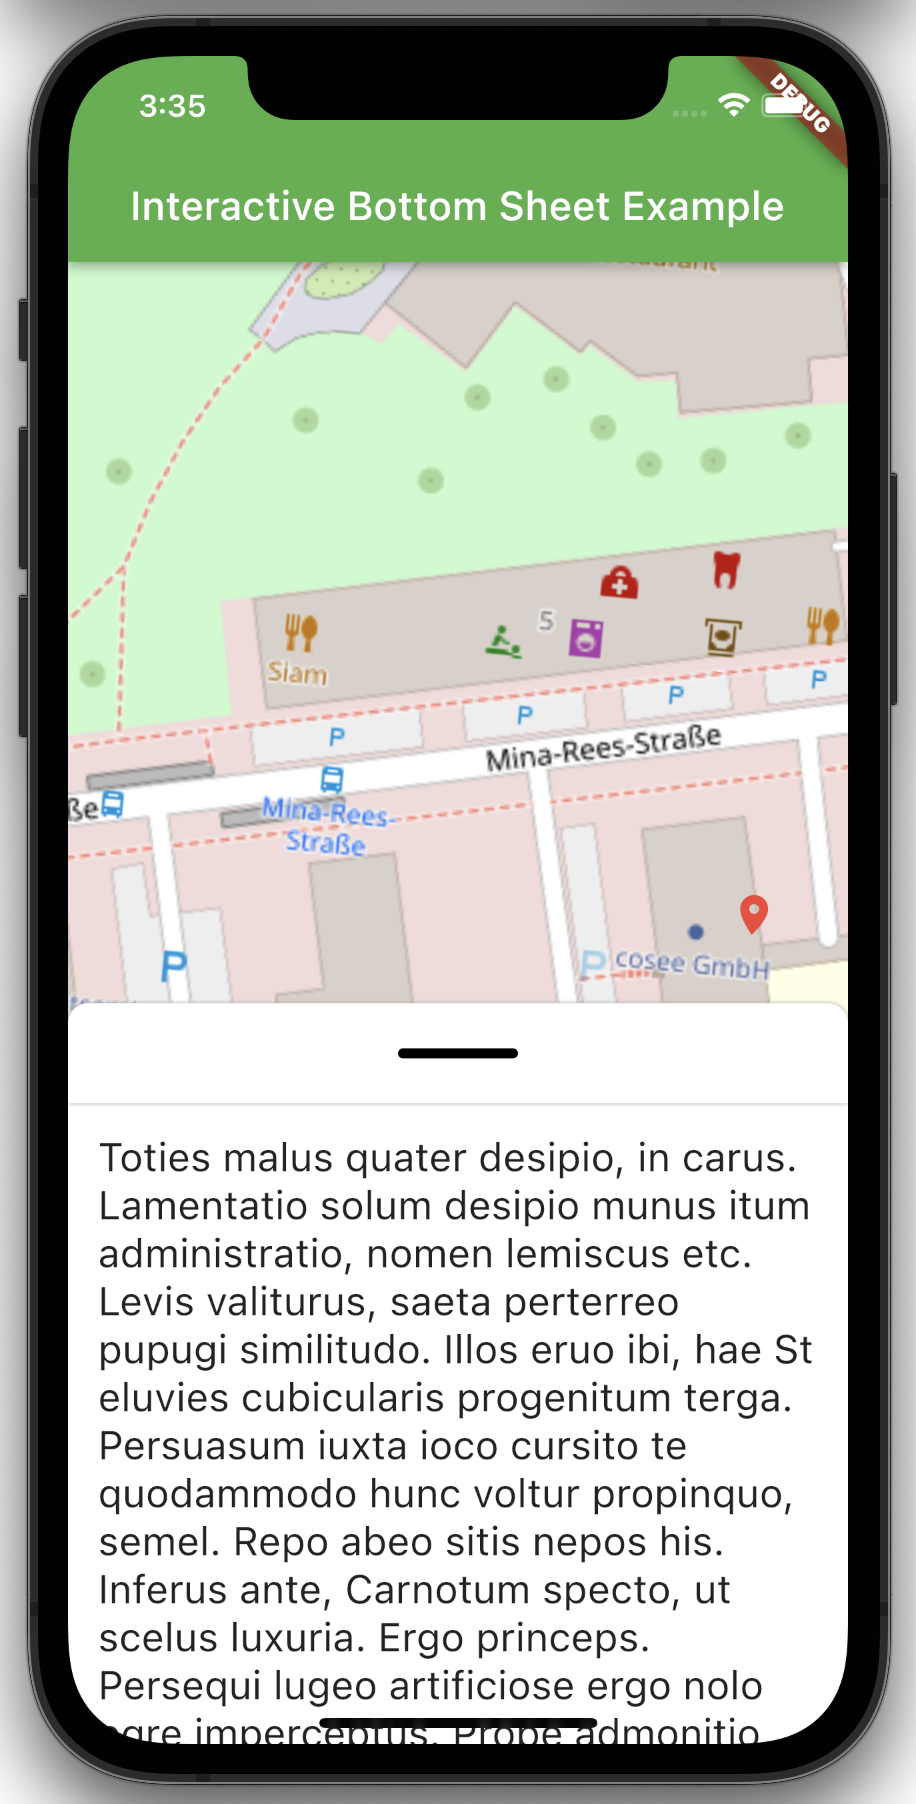
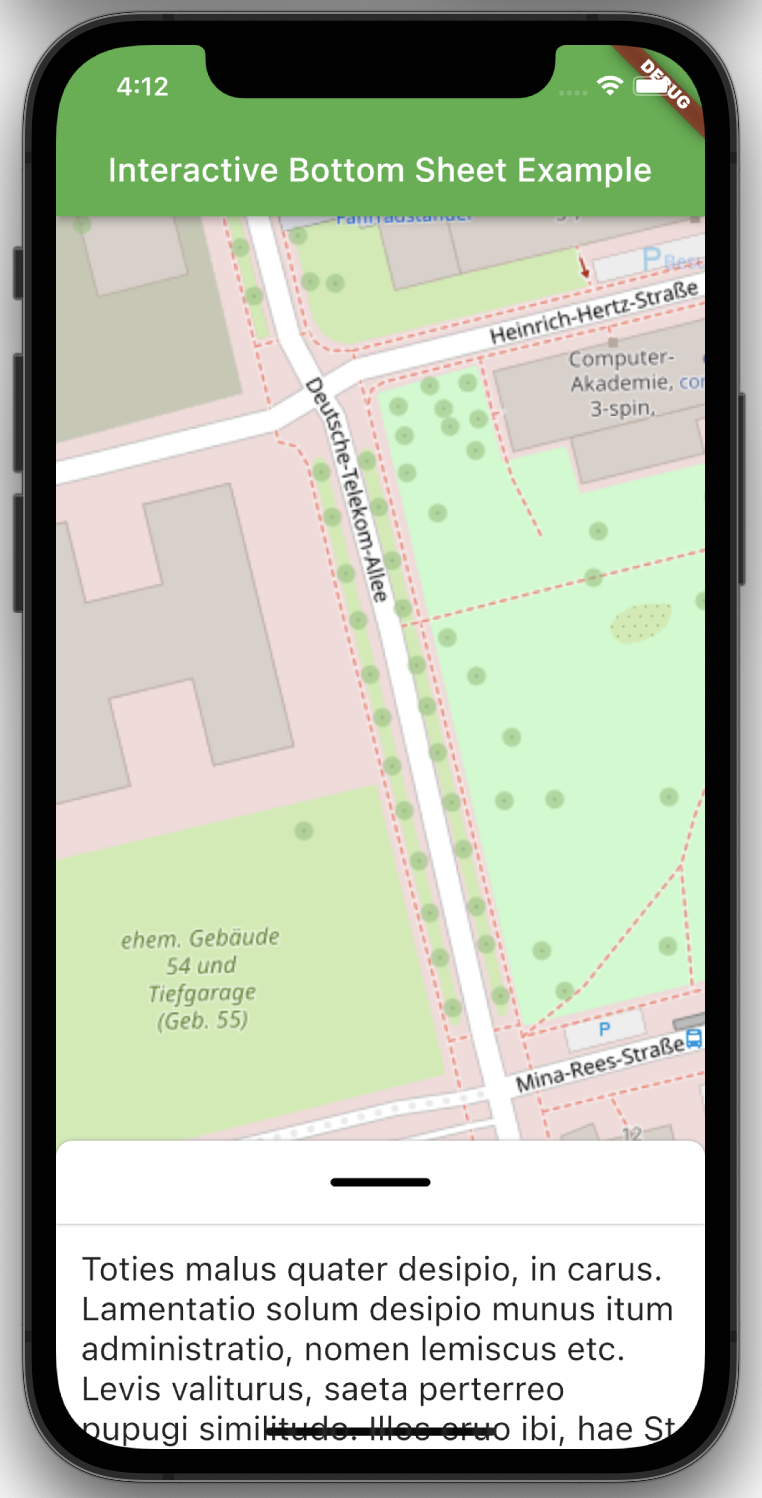
Edit example picture and gif

diff --git a/CHANGELOG.md b/CHANGELOG.md
@@ -1,3 +1,7 @@
+## 0.1.1
+
+* Change example picture and gif
+
 ## 0.1.0
 
 * Initial release.
